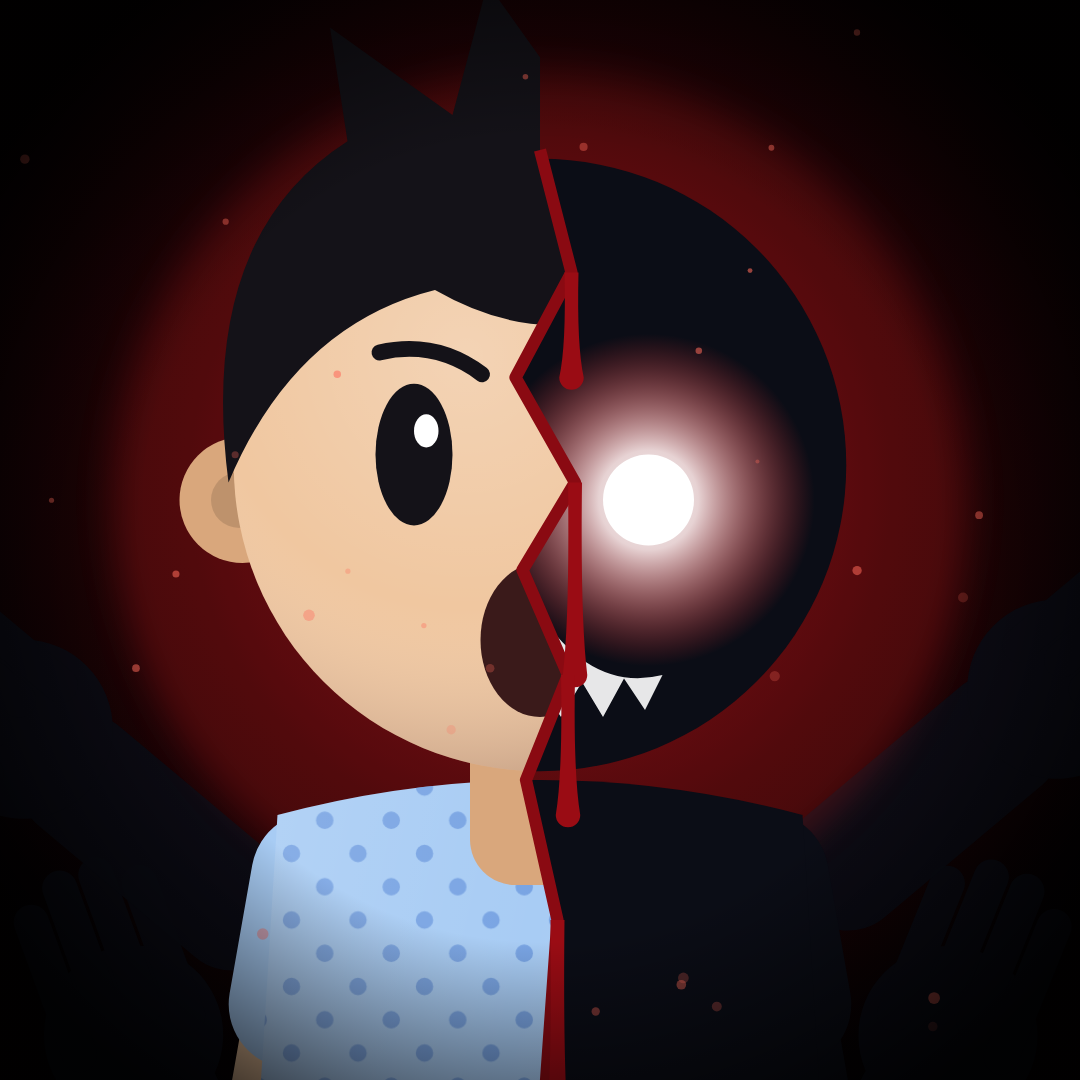
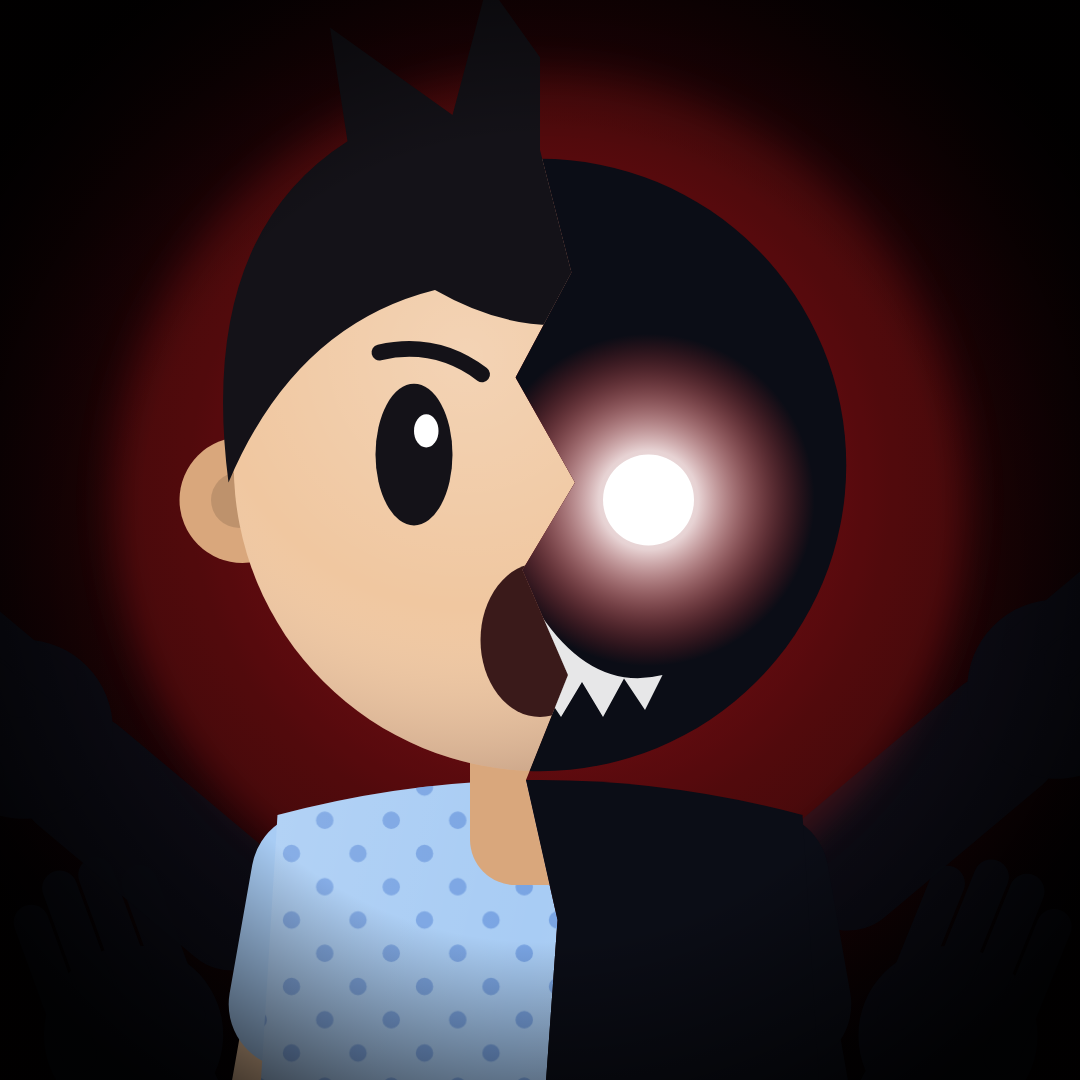
Photo de profil : sans l'effet sang
Claude-Session: https://claude.ai/code/session_01GfMMWBppVQkGFzgCmX1Wvq

diff --git a/personnage/video/src/PP.jsx b/personnage/video/src/PP.jsx
@@ -1,11 +1,11 @@
-import {AbsoluteFill, random} from 'remotion';
+import {AbsoluteFill} from 'remotion';
 import {Rond} from './Rond';
 
 // Photo de profil « horreur » : la moitié du visage du perso déjà transformée en zombie.
 const S = 1.75;
 const CX = 540;
 const CY = 500;
-// fissure entre les deux moitiés (repère du perso)
+// ligne de partage entre les deux moitiés (repère du perso)
 const FISSURE = [[0, -1000], [18, -930], [-14, -870], [20, -810], [-10, -760], [16, -700], [-8, -640], [10, -560], [0, -420]];
 export const PP = () => {
   const bord = FISSURE.map(([x, y]) => `${x},${y}`).join(' L');
@@ -59,17 +59,7 @@ export const PP = () => {
             <circle cx="62" cy="-800" r="26" fill="#ffffff" />
             <path d="M0,-735 Q30,-690 70,-700 L60,-680 L48,-698 L36,-676 L24,-696 L12,-676 L0,-694 Z" fill="#ffffff" opacity="0.9" />
           </g>
-          {/* la fissure et le sang qui coule */}
-          <polyline points={FISSURE.map((p) => p.join(',')).join(' ')} fill="none" stroke="#8a0a12" strokeWidth="7" strokeLinejoin="round" />
-          {[[18, -930, 60], [20, -810, 110], [16, -700, 80], [10, -560, 130]].map(([x, y, h], j) => (
-            <g key={j}>
-              <path d={`M${x - 4},${y} Q${x - 3},${y + h * 0.7} ${x - 7},${y + h} A7,7 0 1 0 ${x + 7},${y + h} Q${x + 3},${y + h * 0.7} ${x + 4},${y} Z`} fill="#9a0c14" />
-            </g>
-          ))}
         </g>
-        {[...Array(30)].map((_, j) => (
-          <circle key={j} cx={random(`pa${j}`) * 1080} cy={random(`pb${j}`) * 1080} r={2 + random(`pc${j}`) * 4} fill="#ff6a5a" opacity={0.2 + 0.4 * random(`pd${j}`)} />
-        ))}
         <rect width="1080" height="1080" fill="url(#pp-vig)" />
       </svg>
     </AbsoluteFill>
